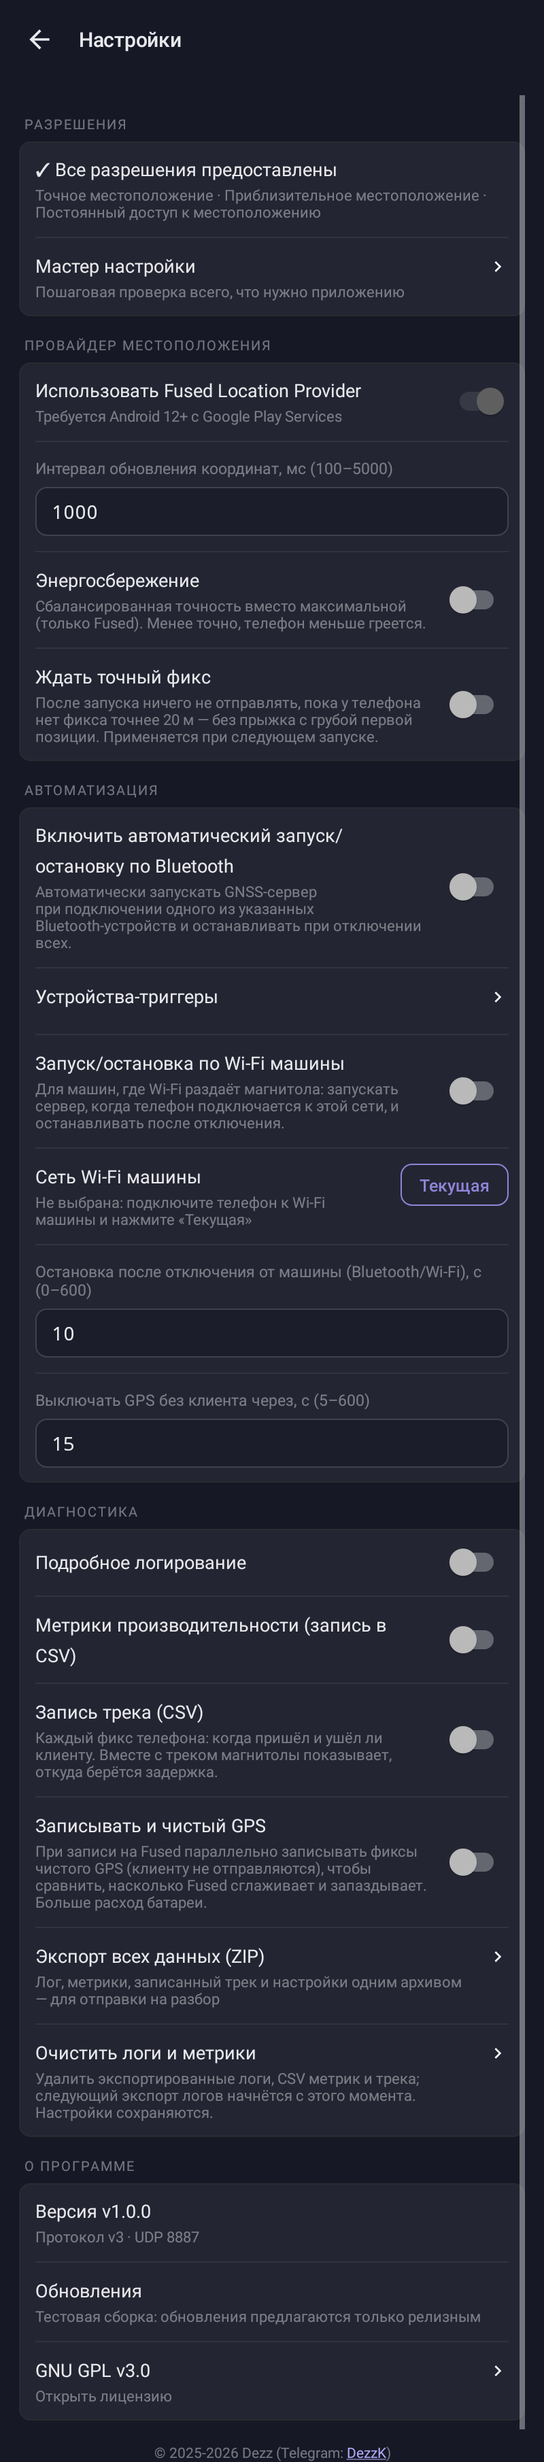
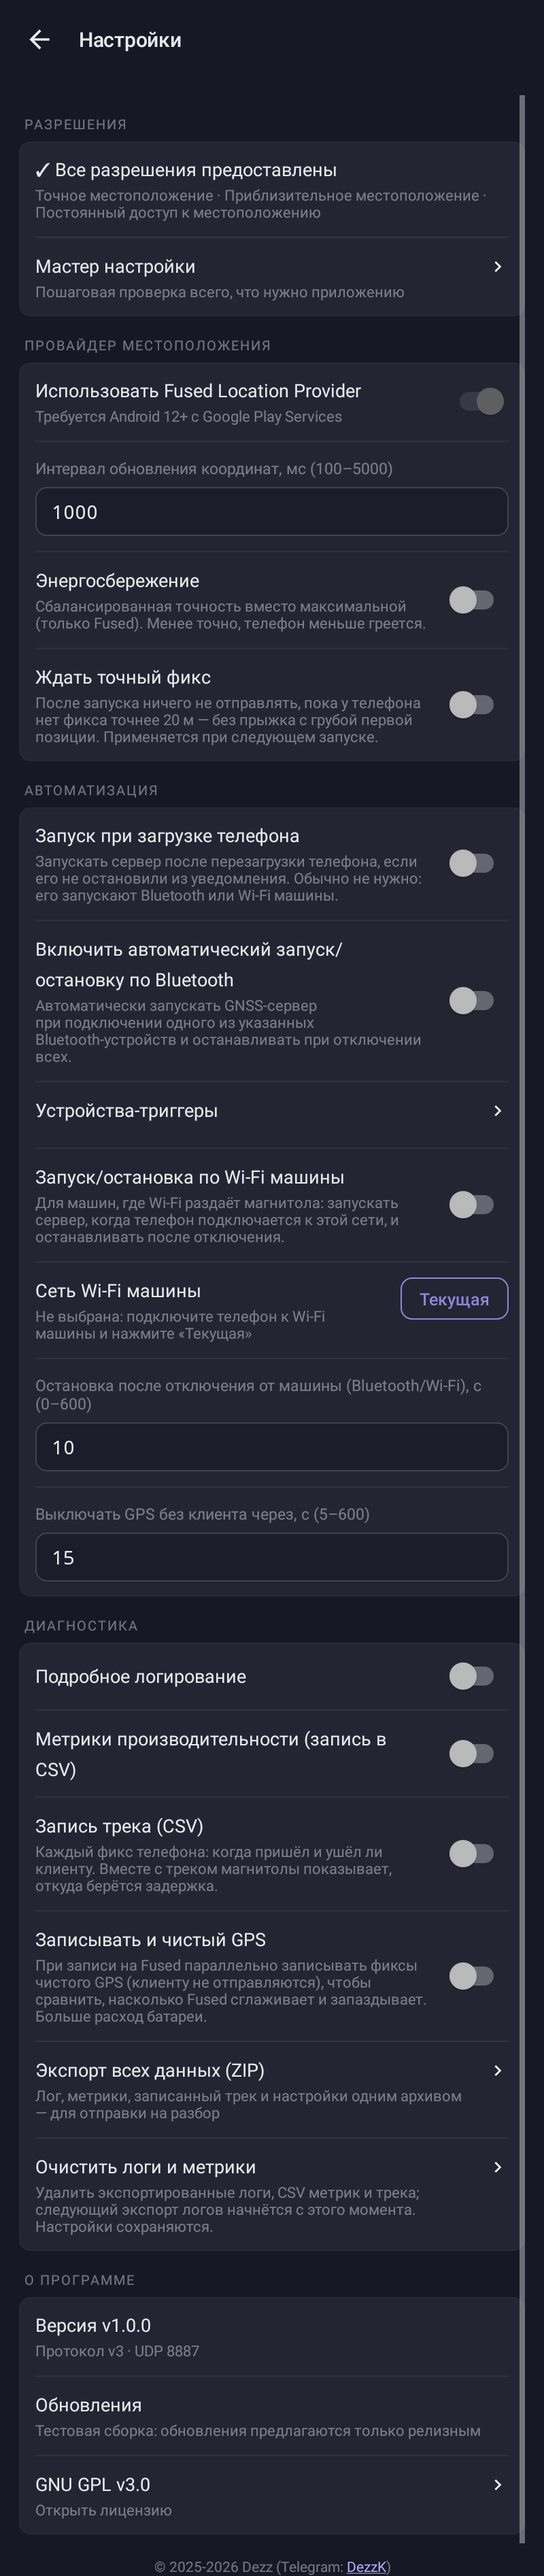
server: switch for starting when the phone boots
The server started after every phone reboot whenever it was left
enabled, and nothing in Settings controlled it: stopping from the
notification only disabled it until the car's Bluetooth started it
again. Settings → Automation now has "Start when the phone boots",
off by default since the server is only needed in the car, where the
car's Bluetooth or Wi-Fi start it. The car Wi-Fi watch is still re-armed
on boot either way.

diff --git a/server-app/src/main/java/goodvin/locsync/server/BroadcastsReceiver.java b/server-app/src/main/java/goodvin/locsync/server/BroadcastsReceiver.java
@@ -65,8 +65,10 @@ public class BroadcastsReceiver extends BroadcastReceiver {
                 AppLog.d(TAG, "Device boot completed, checking if GNSS server should auto-start");
                 WifiTrigger.sync(appContext, true);   // network callbacks don't survive a reboot
 
-                // Check if the service was previously enabled
-                if (GNSSServerService.isServiceEnabled(appContext)) {
+                // Only when the user wants it (Settings → Automation) and the server was left enabled
+                if (!Preferences.bootAutoStartEnabled(appContext)) {
+                    AppLog.d(TAG, "Start on boot is off");
+                } else if (GNSSServerService.isServiceEnabled(appContext)) {
                     if (GNSSServerService.isServiceRunning()) {
                         AppLog.i(TAG, "GNSS server service is already running. Don't start it again.");
                         return;

diff --git a/server-app/src/main/java/goodvin/locsync/server/Preferences.java b/server-app/src/main/java/goodvin/locsync/server/Preferences.java
@@ -207,6 +207,20 @@ public class Preferences {
         return getPrefs(context).getBoolean(PREF_WAIT_ACCURATE, false);
     }
 
+    private static final String PREF_BOOT_AUTO_START = "bootAutoStartEnabled";
+
+    /**
+     * Start the server when the phone finishes booting. Off by default: the server is only needed in
+     * the car, where Bluetooth/Wi-Fi of the car start it.
+     */
+    public static void setBootAutoStartEnabled(Context context, boolean enabled) {
+        getPrefs(context).edit().putBoolean(PREF_BOOT_AUTO_START, enabled).apply();
+    }
+
+    public static boolean bootAutoStartEnabled(Context context) {
+        return getPrefs(context).getBoolean(PREF_BOOT_AUTO_START, false);
+    }
+
     private static final String PREF_WIFI_AUTO_START = "wifiAutoStartEnabled";
     private static final String PREF_WIFI_TRIGGER_SSID = "wifiTriggerSsid";
 

diff --git a/server-app/src/main/java/goodvin/locsync/server/MainActivity.java b/server-app/src/main/java/goodvin/locsync/server/MainActivity.java
@@ -453,6 +453,9 @@ public class MainActivity extends AppCompatActivity {
                 checked -> Preferences.setWaitForAccurate(this, checked));
 
         // Automation
+        bindToggle(R.id.rowBootAutostart, getString(R.string.boot_autostart),
+                getString(R.string.boot_autostart_sub), Preferences.bootAutoStartEnabled(this),
+                checked -> Preferences.setBootAutoStartEnabled(this, checked));
         View rowBt = findViewById(R.id.rowBluetooth);
         setText(rowBt, R.id.row_label, getString(R.string.bluetooth_auto_start_enabled));
         TextView btSub = rowBt.findViewById(R.id.row_sub);
